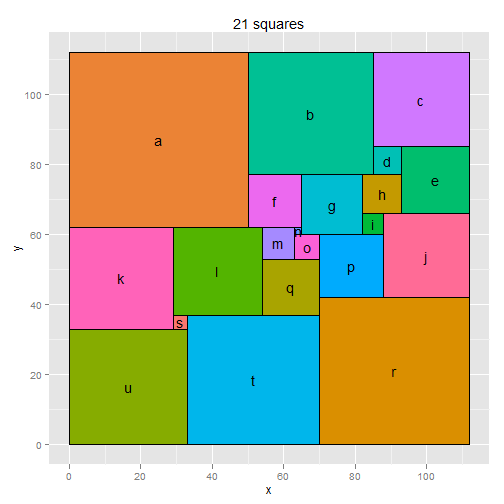
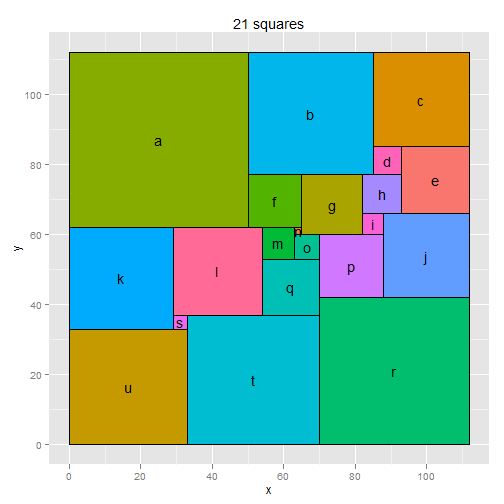
reference to squares_df was wrong, and shortened some comments

diff --git a/actuary_june_2012.html b/actuary_june_2012.html
@@ -296,7 +296,7 @@ i &lt;- 1
         possible_p &lt;- (oo + 1):(ll - nn - 1)
         possible_p &lt;- possible_p[!{
             possible_p %in% c(nn, oo, mm, qq, ll, ss, kk, uu, tt)
-        }]  # filter out values already used, as all numbers must be unique
+        }]  # filter out values already used as numbers must be unique
         if (length(possible_p) == 0) 
             next
         for (pp in possible_p) {
@@ -371,7 +371,7 @@ i &lt;- 1
 <p>As you can see, they are seem to be multiples of the first solution (when \(a = 50\), \(b = 35\), etc) suggesting a unique solution up to scalar multiples, but these still need to be confirmed. To do this will now attempt to plot the square with layout from the original puzzle, values from the first produced solution.</p>
 
 <pre><code class="r">library(ggplot2)
-values &lt;- as.list(possible_solutions[[1]])  # use first solution in the list
+values &lt;- as.list(possible_solutions[[1]])  # use first solution
 </code></pre>
 
 <p>To set up the plot, need to manually create table of values of corner locations for each square. I used the image of the puzzle to create these points based on lengths of all squares in a given solution.</p>
@@ -460,7 +460,7 @@ squares_df
 <p>Now plot this to see if it matches the puzzle, using ggplot2 and the geom &ldquo;geom_rect&rdquo; for plotting the rectangles. To achieve random colouring, first rearranged the levels of the factor &ldquo;square&rdquo;:</p>
 
 <pre><code class="r">set.seed(1)
-ggplot(square_positions_df) +  
+ggplot(squares_df) +  
   scale_x_continuous(name=&quot;x&quot;) + 
   scale_y_continuous(name=&quot;y&quot;) +
   geom_rect(aes(
@@ -477,8 +477,7 @@ ggplot(square_positions_df) +
   opts(legend.position = &quot;none&quot;, title = &quot;21 squares&quot;)
 </code></pre>
 
-<pre><code>## Error: object &#39;square_positions_df&#39; not found
-</code></pre>
[1 lines of base64/hex data omitted]
 
 <h1>Final solution!</h1>
 
